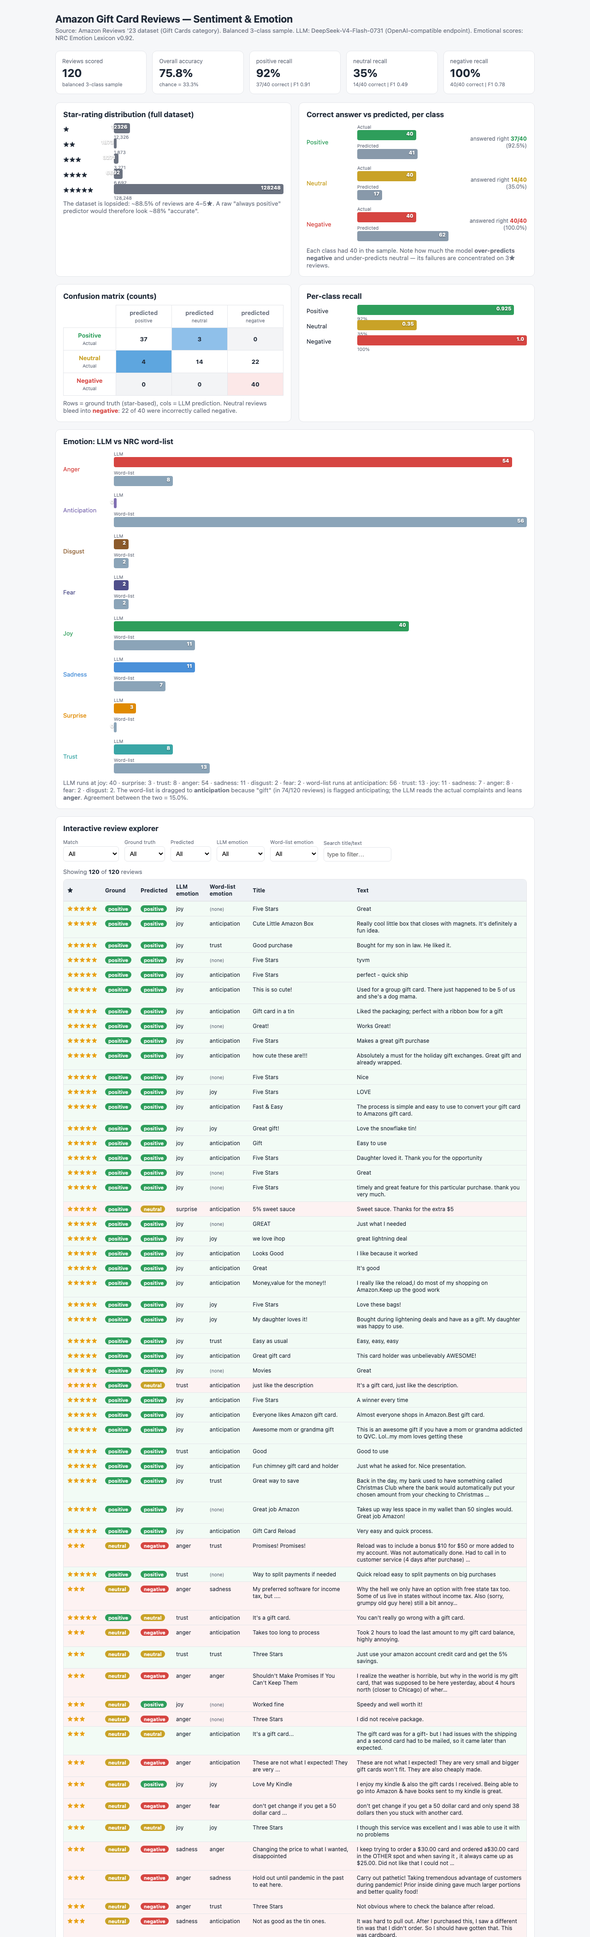
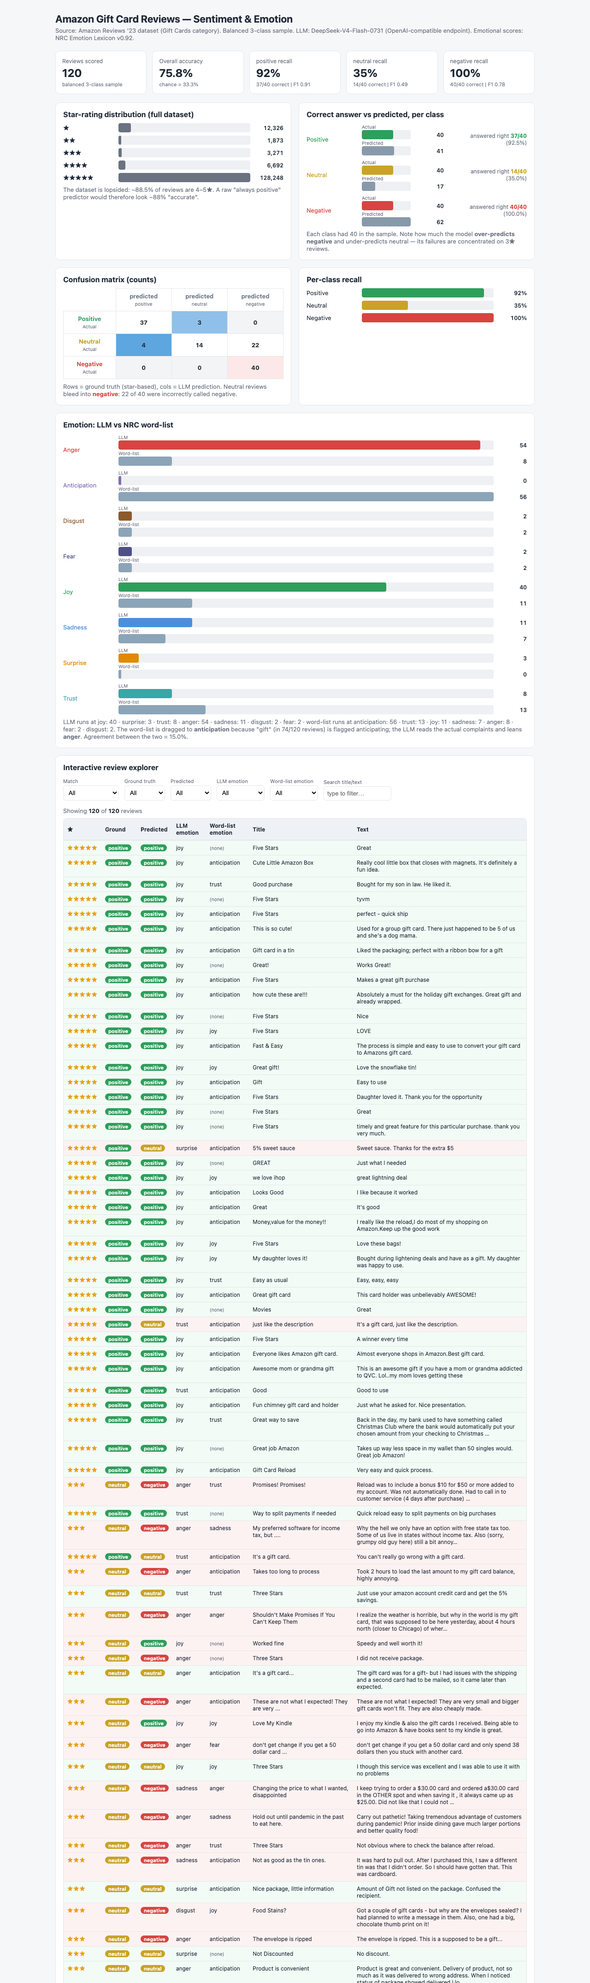
Fix star-rating chart: move counts to a right-hand column so small bars no longer overlap the legend

diff --git a/dashboard.html b/dashboard.html
@@ -22,12 +22,12 @@
   .kpi-value{ font-size:24px; font-weight:700; margin:4px 0; }
   .kpi-sub{ font-size:11px; color:var(--muted); }
   .chart{ margin-top:6px; }
-  .hbar-row,.group-row{ display:flex; align-items:center; margin:7px 0; }
+  .hbar-row,.group-row{ display:flex; align-items:center; margin:7px 0; gap:10px; }
   .hbar-label,.group-label{ width:110px; font-size:13px; text-transform:capitalize; flex:none; }
-  .bar-wrap{ flex:1; height:26px; position:relative; }
-  .bar{ height:22px; border-radius:4px; min-width:4px; position:relative; margin-bottom:2px; }
-  .bar-val{ position:absolute; right:6px; top:1px; font-size:11px; color:#fff; font-weight:700; text-shadow:0 1px 2px rgba(0,0,0,.4); }
-  .bar-label{ font-size:10px; color:var(--muted); }
+  .bar-line{ flex:1; display:flex; align-items:center; gap:8px; min-width:0; }
+  .bar-track{ flex:1; height:20px; background:#eef0f3; border-radius:4px; min-width:0; overflow:hidden; }
+  .bar{ height:100%; border-radius:4px; min-width:4px; }
+  .bar-num{ width:64px; text-align:right; font-size:12px; color:var(--fg); font-weight:600; flex:none; font-variant-numeric:tabular-nums; }
   .group-row{ align-items:center; }
   .group-bars{ flex:1; }
   .gbar-lbl{ font-size:10px; color:var(--muted); margin:2px 0 1px; }
@@ -76,12 +76,12 @@
 
   <div class="grid">
     <div class="card"><h2>Star-rating distribution (full dataset)</h2>
-      <div class="chart" id="star-chart"><div class="hbar-row"><div class="hbar-label">★</div><div class="bar-wrap"><div class="bar" style="width:max(9.6%, 6px);background:#6b7280"><span class="bar-val">12326</span></div><div class="bar-label">12,326</div></div></div><div class="hbar-row"><div class="hbar-label">★★</div><div class="bar-wrap"><div class="bar" style="width:max(1.5%, 6px);background:#6b7280"><span class="bar-val">1873</span></div><div class="bar-label">1,873</div></div></div><div class="hbar-row"><div class="hbar-label">★★★</div><div class="bar-wrap"><div class="bar" style="width:max(2.6%, 6px);background:#6b7280"><span class="bar-val">3271</span></div><div class="bar-label">3,271</div></div></div><div class="hbar-row"><div class="hbar-label">★★★★</div><div class="bar-wrap"><div class="bar" style="width:max(5.2%, 6px);background:#6b7280"><span class="bar-val">6692</span></div><div class="bar-label">6,692</div></div></div><div class="hbar-row"><div class="hbar-label">★★★★★</div><div class="bar-wrap"><div class="bar" style="width:max(100.0%, 6px);background:#6b7280"><span class="bar-val">128248</span></div><div class="bar-label">128,248</div></div></div></div>
+      <div class="chart" id="star-chart"><div class="hbar-row"><div class="hbar-label">★</div><div class="bar-line"><div class="bar-track"><div class="bar" style="width:max(9.6%, 6px);background:#6b7280"></div></div><div class="bar-num">12,326</div></div></div><div class="hbar-row"><div class="hbar-label">★★</div><div class="bar-line"><div class="bar-track"><div class="bar" style="width:max(1.5%, 6px);background:#6b7280"></div></div><div class="bar-num">1,873</div></div></div><div class="hbar-row"><div class="hbar-label">★★★</div><div class="bar-line"><div class="bar-track"><div class="bar" style="width:max(2.6%, 6px);background:#6b7280"></div></div><div class="bar-num">3,271</div></div></div><div class="hbar-row"><div class="hbar-label">★★★★</div><div class="bar-line"><div class="bar-track"><div class="bar" style="width:max(5.2%, 6px);background:#6b7280"></div></div><div class="bar-num">6,692</div></div></div><div class="hbar-row"><div class="hbar-label">★★★★★</div><div class="bar-line"><div class="bar-track"><div class="bar" style="width:max(100.0%, 6px);background:#6b7280"></div></div><div class="bar-num">128,248</div></div></div></div>
       <div class="sub" style="margin-top:8px">The dataset is lopsided: ~88.5% of reviews are 4–5★. A raw "always positive" predictor would therefore look ~88% "accurate".</div>
     </div>
 
     <div class="card"><h2>Correct answer vs predicted, per class</h2>
-      <div class="chart"><div class="group-row"><div class="group-label" style="color:#2e9e5b">positive</div><div class="group-bars"><div class="gbar-lbl">Actual</div><div class="bar-wrap"><div class="bar" style="width:max(64.5%, 6px);background:#2e9e5b"><span class="bar-val">40</span></div><div class="bar-label"></div></div><div class="gbar-lbl">Predicted</div><div class="bar-wrap"><div class="bar" style="width:max(66.1%, 6px);background:#8899aa"><span class="bar-val">41</span></div><div class="bar-label"></div></div></div><div class="group-stat">answered right <b style="color:#2e9e5b">37/40</b> (92.5%)</div></div><div class="group-row"><div class="group-label" style="color:#c9a227">neutral</div><div class="group-bars"><div class="gbar-lbl">Actual</div><div class="bar-wrap"><div class="bar" style="width:max(64.5%, 6px);background:#c9a227"><span class="bar-val">40</span></div><div class="bar-label"></div></div><div class="gbar-lbl">Predicted</div><div class="bar-wrap"><div class="bar" style="width:max(27.4%, 6px);background:#8899aa"><span class="bar-val">17</span></div><div class="bar-label"></div></div></div><div class="group-stat">answered right <b style="color:#c9a227">14/40</b> (35.0%)</div></div><div class="group-row"><div class="group-label" style="color:#d64541">negative</div><div class="group-bars"><div class="gbar-lbl">Actual</div><div class="bar-wrap"><div class="bar" style="width:max(64.5%, 6px);background:#d64541"><span class="bar-val">40</span></div><div class="bar-label"></div></div><div class="gbar-lbl">Predicted</div><div class="bar-wrap"><div class="bar" style="width:max(100.0%, 6px);background:#8899aa"><span class="bar-val">62</span></div><div class="bar-label"></div></div></div><div class="group-stat">answered right <b style="color:#d64541">40/40</b> (100.0%)</div></div></div>
+      <div class="chart"><div class="group-row"><div class="group-label" style="color:#2e9e5b">positive</div><div class="group-bars"><div class="gbar-lbl">Actual</div><div class="bar-line"><div class="bar-track"><div class="bar" style="width:max(64.5%, 6px);background:#2e9e5b"></div></div><div class="bar-num">40</div></div><div class="gbar-lbl">Predicted</div><div class="bar-line"><div class="bar-track"><div class="bar" style="width:max(66.1%, 6px);background:#8899aa"></div></div><div class="bar-num">41</div></div></div><div class="group-stat">answered right <b style="color:#2e9e5b">37/40</b> (92.5%)</div></div><div class="group-row"><div class="group-label" style="color:#c9a227">neutral</div><div class="group-bars"><div class="gbar-lbl">Actual</div><div class="bar-line"><div class="bar-track"><div class="bar" style="width:max(64.5%, 6px);background:#c9a227"></div></div><div class="bar-num">40</div></div><div class="gbar-lbl">Predicted</div><div class="bar-line"><div class="bar-track"><div class="bar" style="width:max(27.4%, 6px);background:#8899aa"></div></div><div class="bar-num">17</div></div></div><div class="group-stat">answered right <b style="color:#c9a227">14/40</b> (35.0%)</div></div><div class="group-row"><div class="group-label" style="color:#d64541">negative</div><div class="group-bars"><div class="gbar-lbl">Actual</div><div class="bar-line"><div class="bar-track"><div class="bar" style="width:max(64.5%, 6px);background:#d64541"></div></div><div class="bar-num">40</div></div><div class="gbar-lbl">Predicted</div><div class="bar-line"><div class="bar-track"><div class="bar" style="width:max(100.0%, 6px);background:#8899aa"></div></div><div class="bar-num">62</div></div></div><div class="group-stat">answered right <b style="color:#d64541">40/40</b> (100.0%)</div></div></div>
       <div class="sub" style="margin-top:8px">Each class had 40 in the sample. Note how much the model <b>over-predicts negative</b> and under-predicts neutral — its failures are concentrated on 3★ reviews.</div>
     </div>
 
@@ -91,11 +91,11 @@
     </div>
 
     <div class="card"><h2>Per-class recall</h2>
-      <div class="chart" style="min-width:260px"><div class="hbar-row"><div class="hbar-label">positive</div><div class="bar-wrap"><div class="bar" style="width:max(92.5%, 6px);background:#2e9e5b"><span class="bar-val">0.925</span></div><div class="bar-label">92%</div></div></div><div class="hbar-row"><div class="hbar-label">neutral</div><div class="bar-wrap"><div class="bar" style="width:max(35.0%, 6px);background:#c9a227"><span class="bar-val">0.35</span></div><div class="bar-label">35%</div></div></div><div class="hbar-row"><div class="hbar-label">negative</div><div class="bar-wrap"><div class="bar" style="width:max(100.0%, 6px);background:#d64541"><span class="bar-val">1.0</span></div><div class="bar-label">100%</div></div></div></div>
+      <div class="chart" style="min-width:260px"><div class="hbar-row"><div class="hbar-label">positive</div><div class="bar-line"><div class="bar-track"><div class="bar" style="width:max(92.5%, 6px);background:#2e9e5b"></div></div><div class="bar-num">92%</div></div></div><div class="hbar-row"><div class="hbar-label">neutral</div><div class="bar-line"><div class="bar-track"><div class="bar" style="width:max(35.0%, 6px);background:#c9a227"></div></div><div class="bar-num">35%</div></div></div><div class="hbar-row"><div class="hbar-label">negative</div><div class="bar-line"><div class="bar-track"><div class="bar" style="width:max(100.0%, 6px);background:#d64541"></div></div><div class="bar-num">100%</div></div></div></div>
     </div>
 
     <div class="card" style="grid-column:1/-1"><h2>Emotion: LLM vs NRC word-list</h2>
-      <div class="chart"><div class="group-row emo"><div class="group-label" style="color:#d64541">anger</div><div class="group-bars"><div class="gbar-lbl">LLM</div><div class="bar-wrap"><div class="bar" style="width:max(96.4%, 6px);background:#d64541"><span class="bar-val">54</span></div><div class="bar-label"></div></div><div class="gbar-lbl">Word-list</div><div class="bar-wrap"><div class="bar" style="width:max(14.3%, 6px);background:#8ba4b8"><span class="bar-val">8</span></div><div class="bar-label"></div></div></div></div><div class="group-row emo"><div class="group-label" style="color:#7f6fb2">anticipation</div><div class="group-bars"><div class="gbar-lbl">LLM</div><div class="bar-wrap"><div class="bar" style="width:max(0.0%, 6px);background:#7f6fb2"><span class="bar-val">0</span></div><div class="bar-label"></div></div><div class="gbar-lbl">Word-list</div><div class="bar-wrap"><div class="bar" style="width:max(100.0%, 6px);background:#8ba4b8"><span class="bar-val">56</span></div><div class="bar-label"></div></div></div></div><div class="group-row emo"><div class="group-label" style="color:#8b5a2b">disgust</div><div class="group-bars"><div class="gbar-lbl">LLM</div><div class="bar-wrap"><div class="bar" style="width:max(3.6%, 6px);background:#8b5a2b"><span class="bar-val">2</span></div><div class="bar-label"></div></div><div class="gbar-lbl">Word-list</div><div class="bar-wrap"><div class="bar" style="width:max(3.6%, 6px);background:#8ba4b8"><span class="bar-val">2</span></div><div class="bar-label"></div></div></div></div><div class="group-row emo"><div class="group-label" style="color:#4f4f8b">fear</div><div class="group-bars"><div class="gbar-lbl">LLM</div><div class="bar-wrap"><div class="bar" style="width:max(3.6%, 6px);background:#4f4f8b"><span class="bar-val">2</span></div><div class="bar-label"></div></div><div class="gbar-lbl">Word-list</div><div class="bar-wrap"><div class="bar" style="width:max(3.6%, 6px);background:#8ba4b8"><span class="bar-val">2</span></div><div class="bar-label"></div></div></div></div><div class="group-row emo"><div class="group-label" style="color:#2e9e5b">joy</div><div class="group-bars"><div class="gbar-lbl">LLM</div><div class="bar-wrap"><div class="bar" style="width:max(71.4%, 6px);background:#2e9e5b"><span class="bar-val">40</span></div><div class="bar-label"></div></div><div class="gbar-lbl">Word-list</div><div class="bar-wrap"><div class="bar" style="width:max(19.6%, 6px);background:#8ba4b8"><span class="bar-val">11</span></div><div class="bar-label"></div></div></div></div><div class="group-row emo"><div class="group-label" style="color:#4a90d9">sadness</div><div class="group-bars"><div class="gbar-lbl">LLM</div><div class="bar-wrap"><div class="bar" style="width:max(19.6%, 6px);background:#4a90d9"><span class="bar-val">11</span></div><div class="bar-label"></div></div><div class="gbar-lbl">Word-list</div><div class="bar-wrap"><div class="bar" style="width:max(12.5%, 6px);background:#8ba4b8"><span class="bar-val">7</span></div><div class="bar-label"></div></div></div></div><div class="group-row emo"><div class="group-label" style="color:#e08a00">surprise</div><div class="group-bars"><div class="gbar-lbl">LLM</div><div class="bar-wrap"><div class="bar" style="width:max(5.4%, 6px);background:#e08a00"><span class="bar-val">3</span></div><div class="bar-label"></div></div><div class="gbar-lbl">Word-list</div><div class="bar-wrap"><div class="bar" style="width:max(0.0%, 6px);background:#8ba4b8"><span class="bar-val">0</span></div><div class="bar-label"></div></div></div></div><div class="group-row emo"><div class="group-label" style="color:#3aa6a6">trust</div><div class="group-bars"><div class="gbar-lbl">LLM</div><div class="bar-wrap"><div class="bar" style="width:max(14.3%, 6px);background:#3aa6a6"><span class="bar-val">8</span></div><div class="bar-label"></div></div><div class="gbar-lbl">Word-list</div><div class="bar-wrap"><div class="bar" style="width:max(23.2%, 6px);background:#8ba4b8"><span class="bar-val">13</span></div><div class="bar-label"></div></div></div></div></div>
+      <div class="chart"><div class="group-row emo"><div class="group-label" style="color:#d64541">anger</div><div class="group-bars"><div class="gbar-lbl">LLM</div><div class="bar-line"><div class="bar-track"><div class="bar" style="width:max(96.4%, 6px);background:#d64541"></div></div><div class="bar-num">54</div></div><div class="gbar-lbl">Word-list</div><div class="bar-line"><div class="bar-track"><div class="bar" style="width:max(14.3%, 6px);background:#8ba4b8"></div></div><div class="bar-num">8</div></div></div></div><div class="group-row emo"><div class="group-label" style="color:#7f6fb2">anticipation</div><div class="group-bars"><div class="gbar-lbl">LLM</div><div class="bar-line"><div class="bar-track"><div class="bar" style="width:max(0.0%, 6px);background:#7f6fb2"></div></div><div class="bar-num">0</div></div><div class="gbar-lbl">Word-list</div><div class="bar-line"><div class="bar-track"><div class="bar" style="width:max(100.0%, 6px);background:#8ba4b8"></div></div><div class="bar-num">56</div></div></div></div><div class="group-row emo"><div class="group-label" style="color:#8b5a2b">disgust</div><div class="group-bars"><div class="gbar-lbl">LLM</div><div class="bar-line"><div class="bar-track"><div class="bar" style="width:max(3.6%, 6px);background:#8b5a2b"></div></div><div class="bar-num">2</div></div><div class="gbar-lbl">Word-list</div><div class="bar-line"><div class="bar-track"><div class="bar" style="width:max(3.6%, 6px);background:#8ba4b8"></div></div><div class="bar-num">2</div></div></div></div><div class="group-row emo"><div class="group-label" style="color:#4f4f8b">fear</div><div class="group-bars"><div class="gbar-lbl">LLM</div><div class="bar-line"><div class="bar-track"><div class="bar" style="width:max(3.6%, 6px);background:#4f4f8b"></div></div><div class="bar-num">2</div></div><div class="gbar-lbl">Word-list</div><div class="bar-line"><div class="bar-track"><div class="bar" style="width:max(3.6%, 6px);background:#8ba4b8"></div></div><div class="bar-num">2</div></div></div></div><div class="group-row emo"><div class="group-label" style="color:#2e9e5b">joy</div><div class="group-bars"><div class="gbar-lbl">LLM</div><div class="bar-line"><div class="bar-track"><div class="bar" style="width:max(71.4%, 6px);background:#2e9e5b"></div></div><div class="bar-num">40</div></div><div class="gbar-lbl">Word-list</div><div class="bar-line"><div class="bar-track"><div class="bar" style="width:max(19.6%, 6px);background:#8ba4b8"></div></div><div class="bar-num">11</div></div></div></div><div class="group-row emo"><div class="group-label" style="color:#4a90d9">sadness</div><div class="group-bars"><div class="gbar-lbl">LLM</div><div class="bar-line"><div class="bar-track"><div class="bar" style="width:max(19.6%, 6px);background:#4a90d9"></div></div><div class="bar-num">11</div></div><div class="gbar-lbl">Word-list</div><div class="bar-line"><div class="bar-track"><div class="bar" style="width:max(12.5%, 6px);background:#8ba4b8"></div></div><div class="bar-num">7</div></div></div></div><div class="group-row emo"><div class="group-label" style="color:#e08a00">surprise</div><div class="group-bars"><div class="gbar-lbl">LLM</div><div class="bar-line"><div class="bar-track"><div class="bar" style="width:max(5.4%, 6px);background:#e08a00"></div></div><div class="bar-num">3</div></div><div class="gbar-lbl">Word-list</div><div class="bar-line"><div class="bar-track"><div class="bar" style="width:max(0.0%, 6px);background:#8ba4b8"></div></div><div class="bar-num">0</div></div></div></div><div class="group-row emo"><div class="group-label" style="color:#3aa6a6">trust</div><div class="group-bars"><div class="gbar-lbl">LLM</div><div class="bar-line"><div class="bar-track"><div class="bar" style="width:max(14.3%, 6px);background:#3aa6a6"></div></div><div class="bar-num">8</div></div><div class="gbar-lbl">Word-list</div><div class="bar-line"><div class="bar-track"><div class="bar" style="width:max(23.2%, 6px);background:#8ba4b8"></div></div><div class="bar-num">13</div></div></div></div></div>
       <div class="sub" style="margin-top:8px">LLM runs at joy: 40 · surprise: 3 · trust: 8 · anger: 54 · sadness: 11 · disgust: 2 · fear: 2 · word-list runs at anticipation: 56 · trust: 13 · joy: 11 · sadness: 7 · anger: 8 · fear: 2 · disgust: 2. The word-list is dragged to <b>anticipation</b> because "gift" (in 74/120 reviews) is flagged anticipating; the LLM reads the actual complaints and leans <b>anger</b>. Agreement between the two = 15.0%.</div>
     </div>
   </div>

diff --git a/index.html b/index.html
@@ -22,12 +22,12 @@
   .kpi-value{ font-size:24px; font-weight:700; margin:4px 0; }
   .kpi-sub{ font-size:11px; color:var(--muted); }
   .chart{ margin-top:6px; }
-  .hbar-row,.group-row{ display:flex; align-items:center; margin:7px 0; }
+  .hbar-row,.group-row{ display:flex; align-items:center; margin:7px 0; gap:10px; }
   .hbar-label,.group-label{ width:110px; font-size:13px; text-transform:capitalize; flex:none; }
-  .bar-wrap{ flex:1; height:26px; position:relative; }
-  .bar{ height:22px; border-radius:4px; min-width:4px; position:relative; margin-bottom:2px; }
-  .bar-val{ position:absolute; right:6px; top:1px; font-size:11px; color:#fff; font-weight:700; text-shadow:0 1px 2px rgba(0,0,0,.4); }
-  .bar-label{ font-size:10px; color:var(--muted); }
+  .bar-line{ flex:1; display:flex; align-items:center; gap:8px; min-width:0; }
+  .bar-track{ flex:1; height:20px; background:#eef0f3; border-radius:4px; min-width:0; overflow:hidden; }
+  .bar{ height:100%; border-radius:4px; min-width:4px; }
+  .bar-num{ width:64px; text-align:right; font-size:12px; color:var(--fg); font-weight:600; flex:none; font-variant-numeric:tabular-nums; }
   .group-row{ align-items:center; }
   .group-bars{ flex:1; }
   .gbar-lbl{ font-size:10px; color:var(--muted); margin:2px 0 1px; }
@@ -76,12 +76,12 @@
 
   <div class="grid">
     <div class="card"><h2>Star-rating distribution (full dataset)</h2>
-      <div class="chart" id="star-chart"><div class="hbar-row"><div class="hbar-label">★</div><div class="bar-wrap"><div class="bar" style="width:max(9.6%, 6px);background:#6b7280"><span class="bar-val">12326</span></div><div class="bar-label">12,326</div></div></div><div class="hbar-row"><div class="hbar-label">★★</div><div class="bar-wrap"><div class="bar" style="width:max(1.5%, 6px);background:#6b7280"><span class="bar-val">1873</span></div><div class="bar-label">1,873</div></div></div><div class="hbar-row"><div class="hbar-label">★★★</div><div class="bar-wrap"><div class="bar" style="width:max(2.6%, 6px);background:#6b7280"><span class="bar-val">3271</span></div><div class="bar-label">3,271</div></div></div><div class="hbar-row"><div class="hbar-label">★★★★</div><div class="bar-wrap"><div class="bar" style="width:max(5.2%, 6px);background:#6b7280"><span class="bar-val">6692</span></div><div class="bar-label">6,692</div></div></div><div class="hbar-row"><div class="hbar-label">★★★★★</div><div class="bar-wrap"><div class="bar" style="width:max(100.0%, 6px);background:#6b7280"><span class="bar-val">128248</span></div><div class="bar-label">128,248</div></div></div></div>
+      <div class="chart" id="star-chart"><div class="hbar-row"><div class="hbar-label">★</div><div class="bar-line"><div class="bar-track"><div class="bar" style="width:max(9.6%, 6px);background:#6b7280"></div></div><div class="bar-num">12,326</div></div></div><div class="hbar-row"><div class="hbar-label">★★</div><div class="bar-line"><div class="bar-track"><div class="bar" style="width:max(1.5%, 6px);background:#6b7280"></div></div><div class="bar-num">1,873</div></div></div><div class="hbar-row"><div class="hbar-label">★★★</div><div class="bar-line"><div class="bar-track"><div class="bar" style="width:max(2.6%, 6px);background:#6b7280"></div></div><div class="bar-num">3,271</div></div></div><div class="hbar-row"><div class="hbar-label">★★★★</div><div class="bar-line"><div class="bar-track"><div class="bar" style="width:max(5.2%, 6px);background:#6b7280"></div></div><div class="bar-num">6,692</div></div></div><div class="hbar-row"><div class="hbar-label">★★★★★</div><div class="bar-line"><div class="bar-track"><div class="bar" style="width:max(100.0%, 6px);background:#6b7280"></div></div><div class="bar-num">128,248</div></div></div></div>
       <div class="sub" style="margin-top:8px">The dataset is lopsided: ~88.5% of reviews are 4–5★. A raw "always positive" predictor would therefore look ~88% "accurate".</div>
     </div>
 
     <div class="card"><h2>Correct answer vs predicted, per class</h2>
-      <div class="chart"><div class="group-row"><div class="group-label" style="color:#2e9e5b">positive</div><div class="group-bars"><div class="gbar-lbl">Actual</div><div class="bar-wrap"><div class="bar" style="width:max(64.5%, 6px);background:#2e9e5b"><span class="bar-val">40</span></div><div class="bar-label"></div></div><div class="gbar-lbl">Predicted</div><div class="bar-wrap"><div class="bar" style="width:max(66.1%, 6px);background:#8899aa"><span class="bar-val">41</span></div><div class="bar-label"></div></div></div><div class="group-stat">answered right <b style="color:#2e9e5b">37/40</b> (92.5%)</div></div><div class="group-row"><div class="group-label" style="color:#c9a227">neutral</div><div class="group-bars"><div class="gbar-lbl">Actual</div><div class="bar-wrap"><div class="bar" style="width:max(64.5%, 6px);background:#c9a227"><span class="bar-val">40</span></div><div class="bar-label"></div></div><div class="gbar-lbl">Predicted</div><div class="bar-wrap"><div class="bar" style="width:max(27.4%, 6px);background:#8899aa"><span class="bar-val">17</span></div><div class="bar-label"></div></div></div><div class="group-stat">answered right <b style="color:#c9a227">14/40</b> (35.0%)</div></div><div class="group-row"><div class="group-label" style="color:#d64541">negative</div><div class="group-bars"><div class="gbar-lbl">Actual</div><div class="bar-wrap"><div class="bar" style="width:max(64.5%, 6px);background:#d64541"><span class="bar-val">40</span></div><div class="bar-label"></div></div><div class="gbar-lbl">Predicted</div><div class="bar-wrap"><div class="bar" style="width:max(100.0%, 6px);background:#8899aa"><span class="bar-val">62</span></div><div class="bar-label"></div></div></div><div class="group-stat">answered right <b style="color:#d64541">40/40</b> (100.0%)</div></div></div>
+      <div class="chart"><div class="group-row"><div class="group-label" style="color:#2e9e5b">positive</div><div class="group-bars"><div class="gbar-lbl">Actual</div><div class="bar-line"><div class="bar-track"><div class="bar" style="width:max(64.5%, 6px);background:#2e9e5b"></div></div><div class="bar-num">40</div></div><div class="gbar-lbl">Predicted</div><div class="bar-line"><div class="bar-track"><div class="bar" style="width:max(66.1%, 6px);background:#8899aa"></div></div><div class="bar-num">41</div></div></div><div class="group-stat">answered right <b style="color:#2e9e5b">37/40</b> (92.5%)</div></div><div class="group-row"><div class="group-label" style="color:#c9a227">neutral</div><div class="group-bars"><div class="gbar-lbl">Actual</div><div class="bar-line"><div class="bar-track"><div class="bar" style="width:max(64.5%, 6px);background:#c9a227"></div></div><div class="bar-num">40</div></div><div class="gbar-lbl">Predicted</div><div class="bar-line"><div class="bar-track"><div class="bar" style="width:max(27.4%, 6px);background:#8899aa"></div></div><div class="bar-num">17</div></div></div><div class="group-stat">answered right <b style="color:#c9a227">14/40</b> (35.0%)</div></div><div class="group-row"><div class="group-label" style="color:#d64541">negative</div><div class="group-bars"><div class="gbar-lbl">Actual</div><div class="bar-line"><div class="bar-track"><div class="bar" style="width:max(64.5%, 6px);background:#d64541"></div></div><div class="bar-num">40</div></div><div class="gbar-lbl">Predicted</div><div class="bar-line"><div class="bar-track"><div class="bar" style="width:max(100.0%, 6px);background:#8899aa"></div></div><div class="bar-num">62</div></div></div><div class="group-stat">answered right <b style="color:#d64541">40/40</b> (100.0%)</div></div></div>
       <div class="sub" style="margin-top:8px">Each class had 40 in the sample. Note how much the model <b>over-predicts negative</b> and under-predicts neutral — its failures are concentrated on 3★ reviews.</div>
     </div>
 
@@ -91,11 +91,11 @@
     </div>
 
     <div class="card"><h2>Per-class recall</h2>
-      <div class="chart" style="min-width:260px"><div class="hbar-row"><div class="hbar-label">positive</div><div class="bar-wrap"><div class="bar" style="width:max(92.5%, 6px);background:#2e9e5b"><span class="bar-val">0.925</span></div><div class="bar-label">92%</div></div></div><div class="hbar-row"><div class="hbar-label">neutral</div><div class="bar-wrap"><div class="bar" style="width:max(35.0%, 6px);background:#c9a227"><span class="bar-val">0.35</span></div><div class="bar-label">35%</div></div></div><div class="hbar-row"><div class="hbar-label">negative</div><div class="bar-wrap"><div class="bar" style="width:max(100.0%, 6px);background:#d64541"><span class="bar-val">1.0</span></div><div class="bar-label">100%</div></div></div></div>
+      <div class="chart" style="min-width:260px"><div class="hbar-row"><div class="hbar-label">positive</div><div class="bar-line"><div class="bar-track"><div class="bar" style="width:max(92.5%, 6px);background:#2e9e5b"></div></div><div class="bar-num">92%</div></div></div><div class="hbar-row"><div class="hbar-label">neutral</div><div class="bar-line"><div class="bar-track"><div class="bar" style="width:max(35.0%, 6px);background:#c9a227"></div></div><div class="bar-num">35%</div></div></div><div class="hbar-row"><div class="hbar-label">negative</div><div class="bar-line"><div class="bar-track"><div class="bar" style="width:max(100.0%, 6px);background:#d64541"></div></div><div class="bar-num">100%</div></div></div></div>
     </div>
 
     <div class="card" style="grid-column:1/-1"><h2>Emotion: LLM vs NRC word-list</h2>
-      <div class="chart"><div class="group-row emo"><div class="group-label" style="color:#d64541">anger</div><div class="group-bars"><div class="gbar-lbl">LLM</div><div class="bar-wrap"><div class="bar" style="width:max(96.4%, 6px);background:#d64541"><span class="bar-val">54</span></div><div class="bar-label"></div></div><div class="gbar-lbl">Word-list</div><div class="bar-wrap"><div class="bar" style="width:max(14.3%, 6px);background:#8ba4b8"><span class="bar-val">8</span></div><div class="bar-label"></div></div></div></div><div class="group-row emo"><div class="group-label" style="color:#7f6fb2">anticipation</div><div class="group-bars"><div class="gbar-lbl">LLM</div><div class="bar-wrap"><div class="bar" style="width:max(0.0%, 6px);background:#7f6fb2"><span class="bar-val">0</span></div><div class="bar-label"></div></div><div class="gbar-lbl">Word-list</div><div class="bar-wrap"><div class="bar" style="width:max(100.0%, 6px);background:#8ba4b8"><span class="bar-val">56</span></div><div class="bar-label"></div></div></div></div><div class="group-row emo"><div class="group-label" style="color:#8b5a2b">disgust</div><div class="group-bars"><div class="gbar-lbl">LLM</div><div class="bar-wrap"><div class="bar" style="width:max(3.6%, 6px);background:#8b5a2b"><span class="bar-val">2</span></div><div class="bar-label"></div></div><div class="gbar-lbl">Word-list</div><div class="bar-wrap"><div class="bar" style="width:max(3.6%, 6px);background:#8ba4b8"><span class="bar-val">2</span></div><div class="bar-label"></div></div></div></div><div class="group-row emo"><div class="group-label" style="color:#4f4f8b">fear</div><div class="group-bars"><div class="gbar-lbl">LLM</div><div class="bar-wrap"><div class="bar" style="width:max(3.6%, 6px);background:#4f4f8b"><span class="bar-val">2</span></div><div class="bar-label"></div></div><div class="gbar-lbl">Word-list</div><div class="bar-wrap"><div class="bar" style="width:max(3.6%, 6px);background:#8ba4b8"><span class="bar-val">2</span></div><div class="bar-label"></div></div></div></div><div class="group-row emo"><div class="group-label" style="color:#2e9e5b">joy</div><div class="group-bars"><div class="gbar-lbl">LLM</div><div class="bar-wrap"><div class="bar" style="width:max(71.4%, 6px);background:#2e9e5b"><span class="bar-val">40</span></div><div class="bar-label"></div></div><div class="gbar-lbl">Word-list</div><div class="bar-wrap"><div class="bar" style="width:max(19.6%, 6px);background:#8ba4b8"><span class="bar-val">11</span></div><div class="bar-label"></div></div></div></div><div class="group-row emo"><div class="group-label" style="color:#4a90d9">sadness</div><div class="group-bars"><div class="gbar-lbl">LLM</div><div class="bar-wrap"><div class="bar" style="width:max(19.6%, 6px);background:#4a90d9"><span class="bar-val">11</span></div><div class="bar-label"></div></div><div class="gbar-lbl">Word-list</div><div class="bar-wrap"><div class="bar" style="width:max(12.5%, 6px);background:#8ba4b8"><span class="bar-val">7</span></div><div class="bar-label"></div></div></div></div><div class="group-row emo"><div class="group-label" style="color:#e08a00">surprise</div><div class="group-bars"><div class="gbar-lbl">LLM</div><div class="bar-wrap"><div class="bar" style="width:max(5.4%, 6px);background:#e08a00"><span class="bar-val">3</span></div><div class="bar-label"></div></div><div class="gbar-lbl">Word-list</div><div class="bar-wrap"><div class="bar" style="width:max(0.0%, 6px);background:#8ba4b8"><span class="bar-val">0</span></div><div class="bar-label"></div></div></div></div><div class="group-row emo"><div class="group-label" style="color:#3aa6a6">trust</div><div class="group-bars"><div class="gbar-lbl">LLM</div><div class="bar-wrap"><div class="bar" style="width:max(14.3%, 6px);background:#3aa6a6"><span class="bar-val">8</span></div><div class="bar-label"></div></div><div class="gbar-lbl">Word-list</div><div class="bar-wrap"><div class="bar" style="width:max(23.2%, 6px);background:#8ba4b8"><span class="bar-val">13</span></div><div class="bar-label"></div></div></div></div></div>
+      <div class="chart"><div class="group-row emo"><div class="group-label" style="color:#d64541">anger</div><div class="group-bars"><div class="gbar-lbl">LLM</div><div class="bar-line"><div class="bar-track"><div class="bar" style="width:max(96.4%, 6px);background:#d64541"></div></div><div class="bar-num">54</div></div><div class="gbar-lbl">Word-list</div><div class="bar-line"><div class="bar-track"><div class="bar" style="width:max(14.3%, 6px);background:#8ba4b8"></div></div><div class="bar-num">8</div></div></div></div><div class="group-row emo"><div class="group-label" style="color:#7f6fb2">anticipation</div><div class="group-bars"><div class="gbar-lbl">LLM</div><div class="bar-line"><div class="bar-track"><div class="bar" style="width:max(0.0%, 6px);background:#7f6fb2"></div></div><div class="bar-num">0</div></div><div class="gbar-lbl">Word-list</div><div class="bar-line"><div class="bar-track"><div class="bar" style="width:max(100.0%, 6px);background:#8ba4b8"></div></div><div class="bar-num">56</div></div></div></div><div class="group-row emo"><div class="group-label" style="color:#8b5a2b">disgust</div><div class="group-bars"><div class="gbar-lbl">LLM</div><div class="bar-line"><div class="bar-track"><div class="bar" style="width:max(3.6%, 6px);background:#8b5a2b"></div></div><div class="bar-num">2</div></div><div class="gbar-lbl">Word-list</div><div class="bar-line"><div class="bar-track"><div class="bar" style="width:max(3.6%, 6px);background:#8ba4b8"></div></div><div class="bar-num">2</div></div></div></div><div class="group-row emo"><div class="group-label" style="color:#4f4f8b">fear</div><div class="group-bars"><div class="gbar-lbl">LLM</div><div class="bar-line"><div class="bar-track"><div class="bar" style="width:max(3.6%, 6px);background:#4f4f8b"></div></div><div class="bar-num">2</div></div><div class="gbar-lbl">Word-list</div><div class="bar-line"><div class="bar-track"><div class="bar" style="width:max(3.6%, 6px);background:#8ba4b8"></div></div><div class="bar-num">2</div></div></div></div><div class="group-row emo"><div class="group-label" style="color:#2e9e5b">joy</div><div class="group-bars"><div class="gbar-lbl">LLM</div><div class="bar-line"><div class="bar-track"><div class="bar" style="width:max(71.4%, 6px);background:#2e9e5b"></div></div><div class="bar-num">40</div></div><div class="gbar-lbl">Word-list</div><div class="bar-line"><div class="bar-track"><div class="bar" style="width:max(19.6%, 6px);background:#8ba4b8"></div></div><div class="bar-num">11</div></div></div></div><div class="group-row emo"><div class="group-label" style="color:#4a90d9">sadness</div><div class="group-bars"><div class="gbar-lbl">LLM</div><div class="bar-line"><div class="bar-track"><div class="bar" style="width:max(19.6%, 6px);background:#4a90d9"></div></div><div class="bar-num">11</div></div><div class="gbar-lbl">Word-list</div><div class="bar-line"><div class="bar-track"><div class="bar" style="width:max(12.5%, 6px);background:#8ba4b8"></div></div><div class="bar-num">7</div></div></div></div><div class="group-row emo"><div class="group-label" style="color:#e08a00">surprise</div><div class="group-bars"><div class="gbar-lbl">LLM</div><div class="bar-line"><div class="bar-track"><div class="bar" style="width:max(5.4%, 6px);background:#e08a00"></div></div><div class="bar-num">3</div></div><div class="gbar-lbl">Word-list</div><div class="bar-line"><div class="bar-track"><div class="bar" style="width:max(0.0%, 6px);background:#8ba4b8"></div></div><div class="bar-num">0</div></div></div></div><div class="group-row emo"><div class="group-label" style="color:#3aa6a6">trust</div><div class="group-bars"><div class="gbar-lbl">LLM</div><div class="bar-line"><div class="bar-track"><div class="bar" style="width:max(14.3%, 6px);background:#3aa6a6"></div></div><div class="bar-num">8</div></div><div class="gbar-lbl">Word-list</div><div class="bar-line"><div class="bar-track"><div class="bar" style="width:max(23.2%, 6px);background:#8ba4b8"></div></div><div class="bar-num">13</div></div></div></div></div>
       <div class="sub" style="margin-top:8px">LLM runs at joy: 40 · surprise: 3 · trust: 8 · anger: 54 · sadness: 11 · disgust: 2 · fear: 2 · word-list runs at anticipation: 56 · trust: 13 · joy: 11 · sadness: 7 · anger: 8 · fear: 2 · disgust: 2. The word-list is dragged to <b>anticipation</b> because "gift" (in 74/120 reviews) is flagged anticipating; the LLM reads the actual complaints and leans <b>anger</b>. Agreement between the two = 15.0%.</div>
     </div>
   </div>
